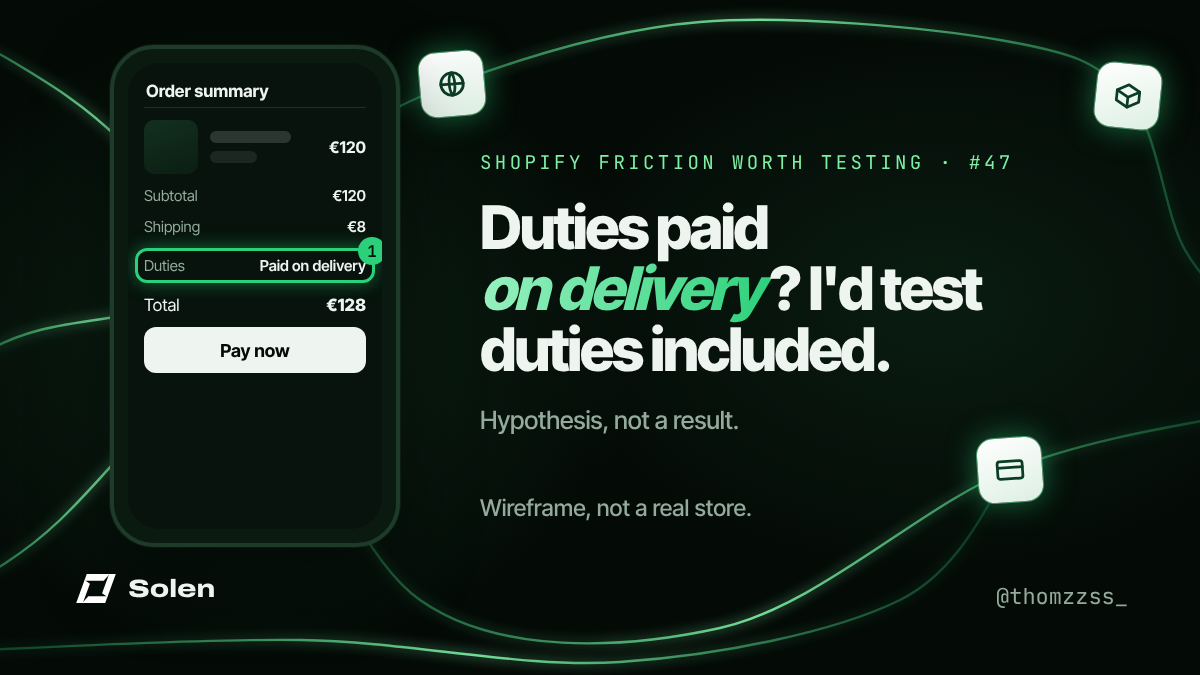
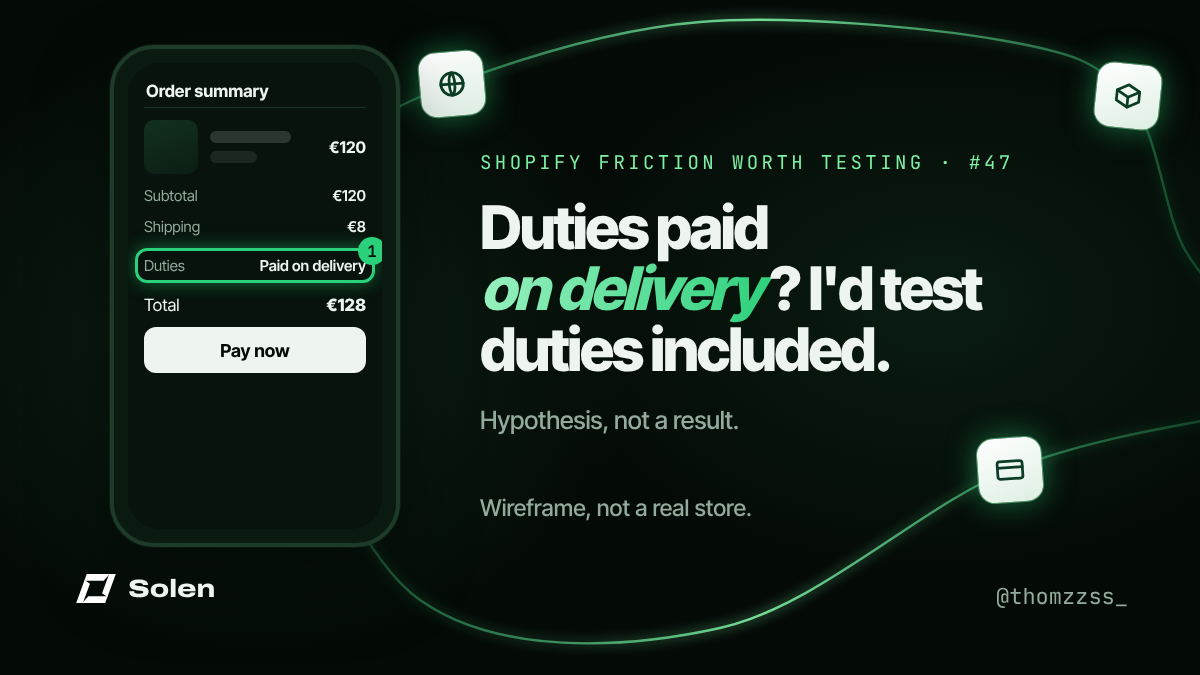
X visuals: two green lines at most on every visual
Claude-Session: https://claude.ai/code/session_01BHXAVJFnX9CQrySXqS91xj

diff --git a/design/social/x-friction/_src/cta-form.html b/design/social/x-friction/_src/cta-form.html
@@ -56,16 +56,10 @@
 <script src="threads.js"></script>
 <script>
 // Comme la bannière : les traits partent d'un point sous le titre et rejoignent les tuiles et les bords.
-const H = [600, 512];
+// Deux traits au plus (demande de Thomas, 23/11) : un arc au-dessus du logo, un sous le titre.
 drawThreads([
-  [H, [470,330], [300,118], [80,40], [-60,30]],
-  [H, [290,492], [118,262], [-60,220]],
-  [H, [430,560], [500,600], [470,720]],
-  [H, [720,560], [752,590], [790,720]],
-  [H, [910,488], [1086,330], [1260,300]],
-  [H, [760,300], [960,112], [1260,70]],
-  [[-60,590], [290,492], [600,512], [910,488], [1260,590]],
-  [[-60,640], [240,600], [500,600], [752,590], [1000,640], [1260,610]],
+  [[-60,60], [300,118], [620,64], [960,112], [1260,56]],
+  [[-60,600], [290,492], [500,600], [752,590], [910,488], [1260,560]],
 ]);
 </script>
 </body>

diff --git a/design/social/x-friction/_src/friction-28.html b/design/social/x-friction/_src/friction-28.html
@@ -131,13 +131,10 @@
 <script>
 // Comme la bannière : les traits partent d'un même point (caché derrière le téléphone) et balaient l'image, sans passer sur le texte.
 const H = [255, 300];
+// Deux traits au plus (demande de Thomas, 23/11).
 drawThreads([
   [H, [330,160], [452,84], [700,22], [1000,40], [1128,96], [1185,250], [1260,330]],
-  [H, [120,140], [10,60], [-60,30]],
-  [H, [40,330], [-60,380]],
-  [H, [60,520], [-60,600]],
   [H, [420,600], [720,628], [1010,470], [1260,410]],
-  [[-60,652], [300,640], [620,662], [900,600], [1010,470]],
 ]);
 </script>
 </body>

diff --git a/design/social/x-friction/_src/friction-29.html b/design/social/x-friction/_src/friction-29.html
@@ -132,13 +132,10 @@
 <script>
 // Comme la bannière : les traits partent d'un même point (caché derrière le téléphone) et balaient l'image, sans passer sur le texte.
 const H = [255, 300];
+// Deux traits au plus (demande de Thomas, 23/11).
 drawThreads([
   [H, [330,160], [452,84], [700,22], [1000,40], [1128,96], [1185,250], [1260,330]],
-  [H, [120,140], [10,60], [-60,30]],
-  [H, [40,330], [-60,380]],
-  [H, [60,520], [-60,600]],
   [H, [420,600], [720,628], [1010,470], [1260,410]],
-  [[-60,652], [300,640], [620,662], [900,600], [1010,470]],
 ]);
 </script>
 </body>

diff --git a/design/social/x-friction/_src/friction-30.html b/design/social/x-friction/_src/friction-30.html
@@ -132,13 +132,10 @@
 <script>
 // Comme la bannière : les traits partent d'un même point (caché derrière le téléphone) et balaient l'image, sans passer sur le texte.
 const H = [255, 300];
+// Deux traits au plus (demande de Thomas, 23/11).
 drawThreads([
   [H, [330,160], [452,84], [700,22], [1000,40], [1128,96], [1185,250], [1260,330]],
-  [H, [120,140], [10,60], [-60,30]],
-  [H, [40,330], [-60,380]],
-  [H, [60,520], [-60,600]],
   [H, [420,600], [720,628], [1010,470], [1260,410]],
-  [[-60,652], [300,640], [620,662], [900,600], [1010,470]],
 ]);
 </script>
 </body>

diff --git a/design/social/x-friction/_src/friction-31.html b/design/social/x-friction/_src/friction-31.html
@@ -131,13 +131,10 @@
 <script>
 // Comme la bannière : les traits partent d'un même point (caché derrière le téléphone) et balaient l'image, sans passer sur le texte.
 const H = [255, 300];
+// Deux traits au plus (demande de Thomas, 23/11).
 drawThreads([
   [H, [330,160], [452,84], [700,22], [1000,40], [1128,96], [1185,250], [1260,330]],
-  [H, [120,140], [10,60], [-60,30]],
-  [H, [40,330], [-60,380]],
-  [H, [60,520], [-60,600]],
   [H, [420,600], [720,628], [1010,470], [1260,410]],
-  [[-60,652], [300,640], [620,662], [900,600], [1010,470]],
 ]);
 </script>
 </body>

diff --git a/design/social/x-friction/_src/friction-32.html b/design/social/x-friction/_src/friction-32.html
@@ -128,13 +128,10 @@
 <script>
 // Comme la bannière : les traits partent d'un même point (caché derrière le téléphone) et balaient l'image, sans passer sur le texte.
 const H = [255, 300];
+// Deux traits au plus (demande de Thomas, 23/11).
 drawThreads([
   [H, [330,160], [452,84], [700,22], [1000,40], [1128,96], [1185,250], [1260,330]],
-  [H, [120,140], [10,60], [-60,30]],
-  [H, [40,330], [-60,380]],
-  [H, [60,520], [-60,600]],
   [H, [420,600], [720,628], [1010,470], [1260,410]],
-  [[-60,652], [300,640], [620,662], [900,600], [1010,470]],
 ]);
 </script>
 </body>

diff --git a/design/social/x-friction/_src/friction-33.html b/design/social/x-friction/_src/friction-33.html
@@ -131,13 +131,10 @@
 <script>
 // Comme la bannière : les traits partent d'un même point (caché derrière le téléphone) et balaient l'image, sans passer sur le texte.
 const H = [255, 300];
+// Deux traits au plus (demande de Thomas, 23/11).
 drawThreads([
   [H, [330,160], [452,84], [700,22], [1000,40], [1128,96], [1185,250], [1260,330]],
-  [H, [120,140], [10,60], [-60,30]],
-  [H, [40,330], [-60,380]],
-  [H, [60,520], [-60,600]],
   [H, [420,600], [720,628], [1010,470], [1260,410]],
-  [[-60,652], [300,640], [620,662], [900,600], [1010,470]],
 ]);
 </script>
 </body>

diff --git a/design/social/x-friction/_src/friction-34.html b/design/social/x-friction/_src/friction-34.html
@@ -132,13 +132,10 @@
 <script>
 // Comme la bannière : les traits partent d'un même point (caché derrière le téléphone) et balaient l'image, sans passer sur le texte.
 const H = [255, 300];
+// Deux traits au plus (demande de Thomas, 23/11).
 drawThreads([
   [H, [330,160], [452,84], [700,22], [1000,40], [1128,96], [1185,250], [1260,330]],
-  [H, [120,140], [10,60], [-60,30]],
-  [H, [40,330], [-60,380]],
-  [H, [60,520], [-60,600]],
   [H, [420,600], [720,628], [1010,470], [1260,410]],
-  [[-60,652], [300,640], [620,662], [900,600], [1010,470]],
 ]);
 </script>
 </body>

diff --git a/design/social/x-friction/_src/friction-35.html b/design/social/x-friction/_src/friction-35.html
@@ -131,13 +131,10 @@
 <script>
 // Comme la bannière : les traits partent d'un même point (caché derrière le téléphone) et balaient l'image, sans passer sur le texte.
 const H = [255, 300];
+// Deux traits au plus (demande de Thomas, 23/11).
 drawThreads([
   [H, [330,160], [452,84], [700,22], [1000,40], [1128,96], [1185,250], [1260,330]],
-  [H, [120,140], [10,60], [-60,30]],
-  [H, [40,330], [-60,380]],
-  [H, [60,520], [-60,600]],
   [H, [420,600], [720,628], [1010,470], [1260,410]],
-  [[-60,652], [300,640], [620,662], [900,600], [1010,470]],
 ]);
 </script>
 </body>

diff --git a/design/social/x-friction/_src/friction-36.html b/design/social/x-friction/_src/friction-36.html
@@ -131,13 +131,10 @@
 <script>
 // Comme la bannière : les traits partent d'un même point (caché derrière le téléphone) et balaient l'image, sans passer sur le texte.
 const H = [255, 300];
+// Deux traits au plus (demande de Thomas, 23/11).
 drawThreads([
   [H, [330,160], [452,84], [700,22], [1000,40], [1128,96], [1185,250], [1260,330]],
-  [H, [120,140], [10,60], [-60,30]],
-  [H, [40,330], [-60,380]],
-  [H, [60,520], [-60,600]],
   [H, [420,600], [720,628], [1010,470], [1260,410]],
-  [[-60,652], [300,640], [620,662], [900,600], [1010,470]],
 ]);
 </script>
 </body>

diff --git a/design/social/x-friction/_src/friction-37.html b/design/social/x-friction/_src/friction-37.html
@@ -129,13 +129,10 @@
 <script>
 // Comme la bannière : les traits partent d'un même point (caché derrière le téléphone) et balaient l'image, sans passer sur le texte.
 const H = [255, 300];
+// Deux traits au plus (demande de Thomas, 23/11).
 drawThreads([
   [H, [330,160], [452,84], [700,22], [1000,40], [1128,96], [1185,250], [1260,330]],
-  [H, [120,140], [10,60], [-60,30]],
-  [H, [40,330], [-60,380]],
-  [H, [60,520], [-60,600]],
   [H, [420,600], [720,628], [1010,470], [1260,410]],
-  [[-60,652], [300,640], [620,662], [900,600], [1010,470]],
 ]);
 </script>
 </body>

diff --git a/design/social/x-friction/_src/friction-39.html b/design/social/x-friction/_src/friction-39.html
@@ -131,13 +131,10 @@
 <script>
 // Comme la bannière : les traits partent d'un même point (caché derrière le téléphone) et balaient l'image, sans passer sur le texte.
 const H = [255, 300];
+// Deux traits au plus (demande de Thomas, 23/11).
 drawThreads([
   [H, [330,160], [452,84], [700,22], [1000,40], [1128,96], [1185,250], [1260,330]],
-  [H, [120,140], [10,60], [-60,30]],
-  [H, [40,330], [-60,380]],
-  [H, [60,520], [-60,600]],
   [H, [420,600], [720,628], [1010,470], [1260,410]],
-  [[-60,652], [300,640], [620,662], [900,600], [1010,470]],
 ]);
 </script>
 </body>
